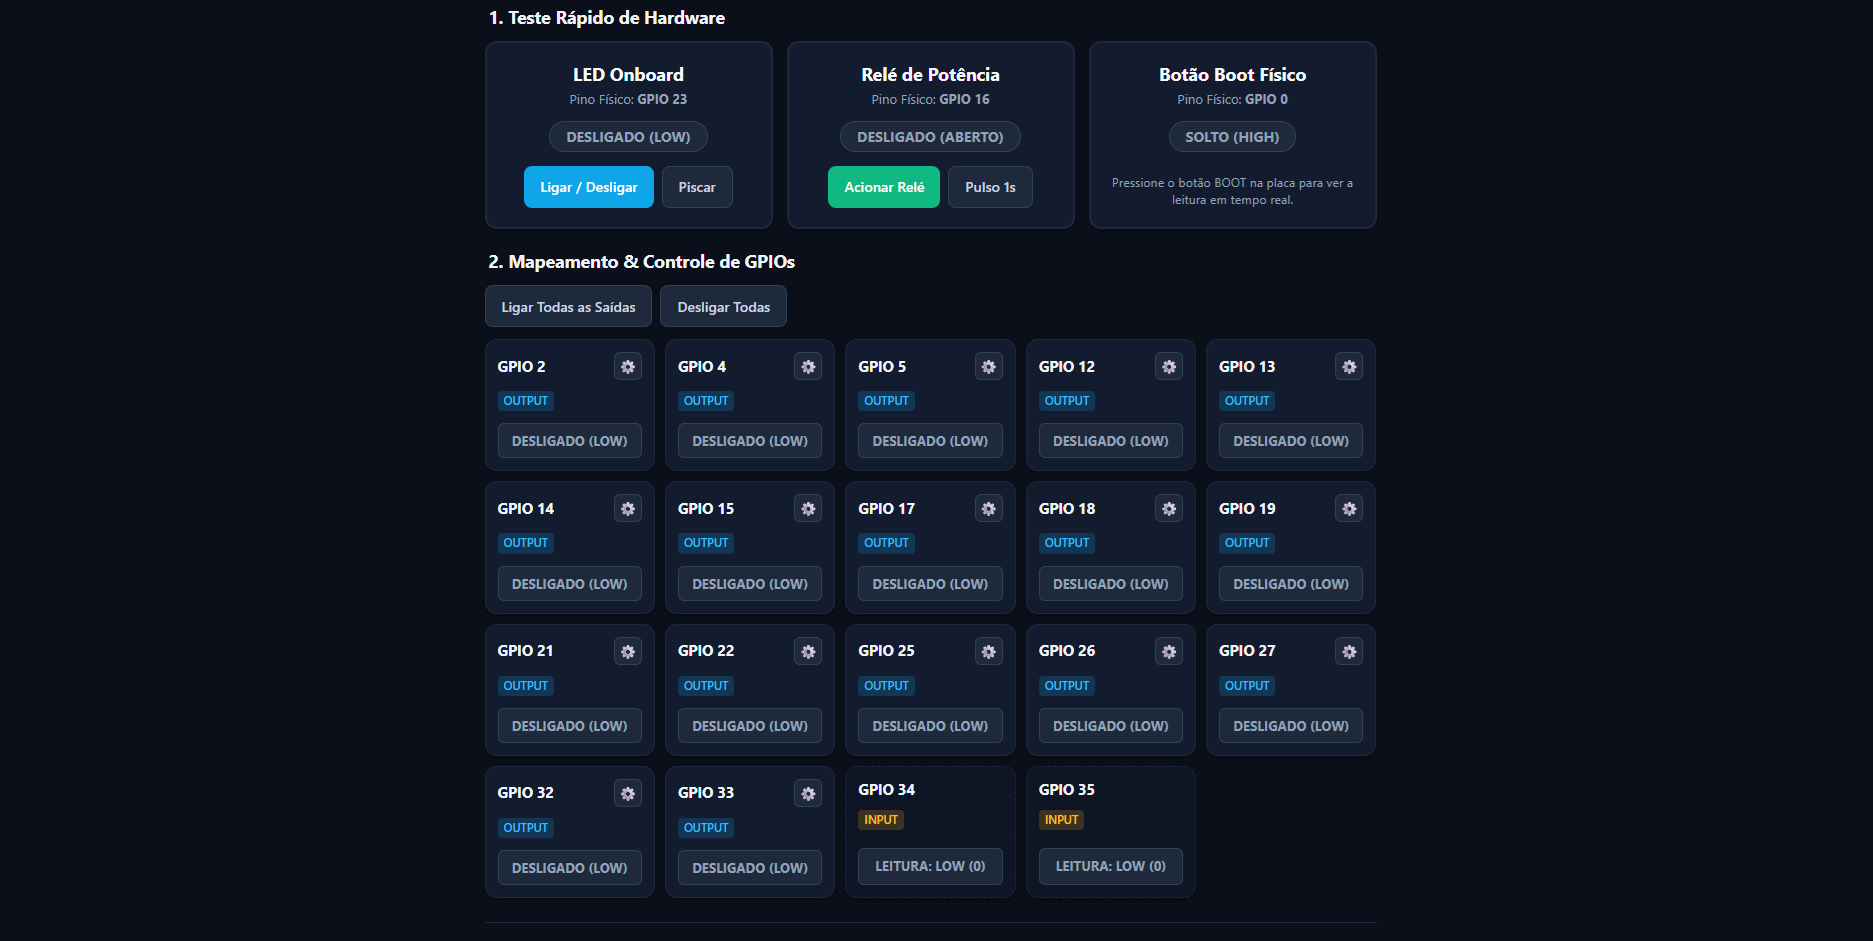
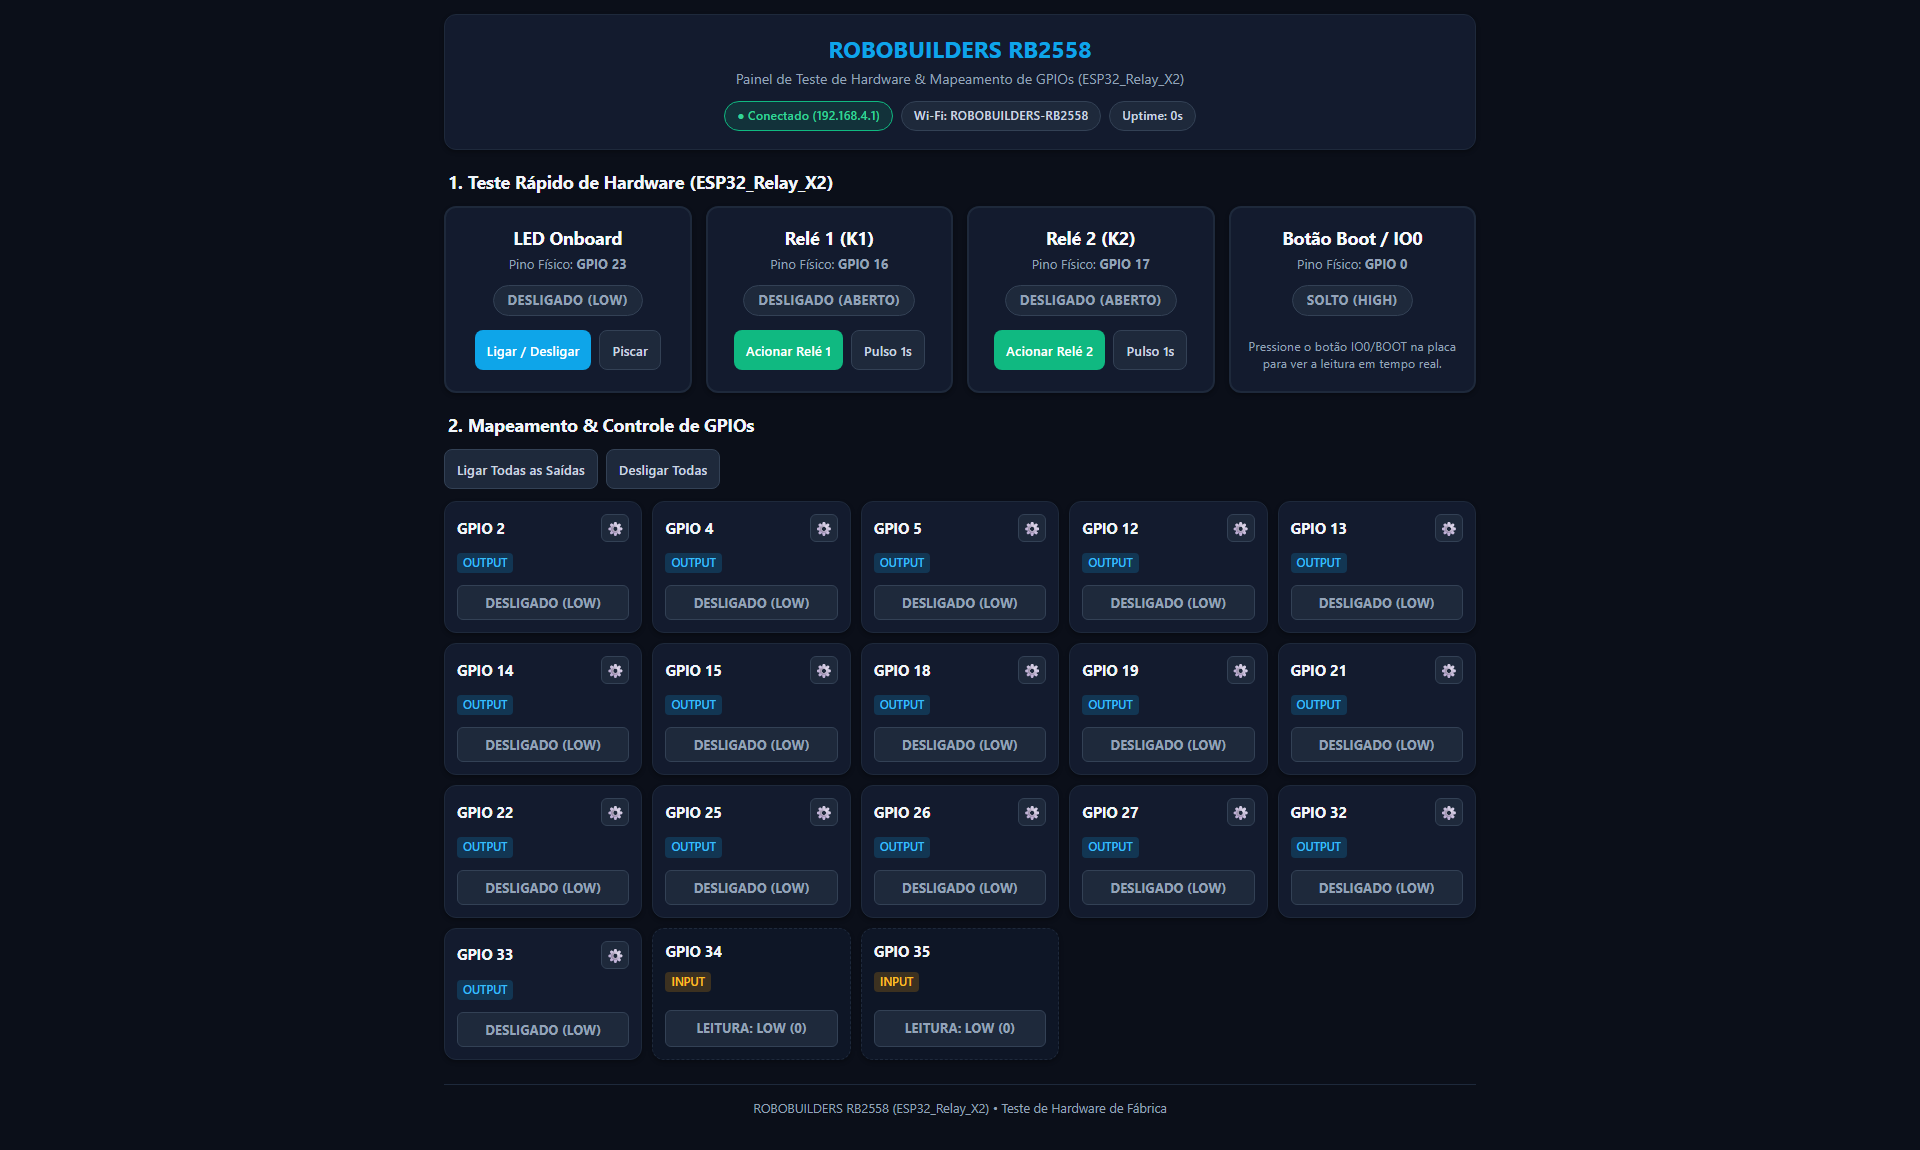
RB2558: ajusta layout do painel web e adiciona screenshot ao README

Changed region(s): [[0.2168, 0.0308, 0.7742, 0.9862], [0.2477, 0.0, 0.4026, 0.0308], [0.7122, 0.3698, 0.7432, 0.4006]]

diff --git a/RB2558/Documentação da placa e projeto WEB/ROBOBUILDERS_RB2558/web_page.h b/RB2558/Documentação da placa e projeto WEB/ROBOBUILDERS_RB2558/web_page.h
@@ -31,7 +31,7 @@ const char INDEX_HTML[] PROGMEM = R"rawliteral(
       --shadow-md: 0 8px 16px rgba(0,0,0,0.4);
     }
     * { box-sizing: border-box; margin: 0; padding: 0; font-family: -apple-system, BlinkMacSystemFont, "Segoe UI", Roboto, sans-serif; }
-    body { background: var(--bg); color: var(--text-main); padding: 14px; max-width: 980px; margin: 0 auto; line-height: 1.4; }
+    body { background: var(--bg); color: var(--text-main); padding: 14px; max-width: 1060px; margin: 0 auto; line-height: 1.4; }
 
     /* Top Header */
     header { background: var(--card-bg); border: 1px solid var(--card-border); border-radius: var(--radius); padding: 18px 16px; margin-bottom: 18px; text-align: center; box-shadow: var(--shadow-sm); }
@@ -45,11 +45,11 @@ const char INDEX_HTML[] PROGMEM = R"rawliteral(
     .section-title { font-size: 1.1rem; color: #f1f5f9; margin: 20px 0 12px 4px; font-weight: 700; display: flex; align-items: center; justify-content: space-between; }
 
     /* Hero Cards (LED, Relay 1, Relay 2, Boot) */
-    .hero-grid { display: grid; grid-template-columns: repeat(auto-fit, minmax(220px, 1fr)); gap: 14px; margin-bottom: 18px; }
-    .hero-card { background: var(--card-bg); border: 2px solid var(--card-border); border-radius: var(--radius); padding: 18px 16px; text-align: center; box-shadow: var(--shadow-sm); transition: all 0.2s; }
+    .hero-grid { display: grid; grid-template-columns: repeat(auto-fit, minmax(235px, 1fr)); gap: 14px; margin-bottom: 18px; }
+    .hero-card { background: var(--card-bg); border: 2px solid var(--card-border); border-radius: var(--radius); padding: 18px 14px; text-align: center; box-shadow: var(--shadow-sm); transition: all 0.2s; }
     .hero-card.active { border-color: var(--green); background: rgba(16, 185, 129, 0.08); }
     .hero-card.led-active { border-color: var(--primary); background: rgba(14, 165, 233, 0.08); }
-    .hero-card h3 { font-size: 1.08rem; margin-bottom: 4px; color: #f8fafc; }
+    .hero-card h3 { font-size: 1.1rem; margin-bottom: 4px; color: #f8fafc; }
     .hero-card .pin-tag { font-size: 0.82rem; color: var(--text-muted); margin-bottom: 12px; display: block; }
     .status-pill { display: inline-block; padding: 5px 14px; border-radius: 20px; font-weight: 700; font-size: 0.82rem; margin-bottom: 14px; letter-spacing: 0.3px; }
     .status-off { background: #1e293b; color: #94a3b8; border: 1px solid #334155; }
@@ -59,7 +59,7 @@ const char INDEX_HTML[] PROGMEM = R"rawliteral(
 
     /* Action Buttons */
     .btn-group { display: flex; gap: 8px; justify-content: center; }
-    .btn { cursor: pointer; border: none; padding: 10px 14px; border-radius: 8px; font-weight: 600; font-size: 0.86rem; transition: background 0.15s, transform 0.1s; display: inline-flex; align-items: center; justify-content: center; gap: 6px; min-height: 40px; }
+    .btn { cursor: pointer; border: none; padding: 10px 12px; border-radius: 8px; font-weight: 600; font-size: 0.84rem; white-space: nowrap; transition: background 0.15s, transform 0.1s; display: inline-flex; align-items: center; justify-content: center; gap: 6px; min-height: 40px; }
     .btn:active { transform: scale(0.97); }
     .btn-primary { background: var(--primary); color: #fff; }
     .btn-primary:hover { background: var(--primary-hover); }
@@ -74,7 +74,7 @@ const char INDEX_HTML[] PROGMEM = R"rawliteral(
     .bulk-bar { display: flex; gap: 8px; margin-bottom: 12px; flex-wrap: wrap; }
 
     /* GPIO Grid */
-    .gpio-grid { display: grid; grid-template-columns: repeat(auto-fill, minmax(160px, 1fr)); gap: 10px; }
+    .gpio-grid { display: grid; grid-template-columns: repeat(auto-fill, minmax(175px, 1fr)); gap: 10px; }
     .gpio-card { background: var(--card-bg); border: 1px solid var(--card-border); border-radius: var(--radius); padding: 12px; box-shadow: var(--shadow-sm); transition: all 0.15s; display: flex; flex-direction: column; justify-content: space-between; }
     .gpio-card.output-on { border-color: var(--green); background: rgba(16, 185, 129, 0.08); }
     .gpio-card.input-mode { border-style: dashed; background: #0e1626; }
@@ -131,7 +131,7 @@ const char INDEX_HTML[] PROGMEM = R"rawliteral(
     <div class="hero-card" id="cardLed">
       <h3>LED Onboard</h3>
       <span class="pin-tag">Pino Físico: <b>GPIO 23</b></span>
-      <div id="pillLed" class="status-pill status-off">DESLIGADO</div>
+      <div id="pillLed" class="status-pill status-off">DESLIGADO (LOW)</div>
       <div class="btn-group">
         <button class="btn btn-primary" onclick="togglePin(23)">Ligar / Desligar</button>
         <button class="btn btn-secondary" onclick="pulsePin(23, 500)">Piscar</button>

diff --git a/RB2558/Documentação da placa e projeto WEB/include/web_page.h b/RB2558/Documentação da placa e projeto WEB/include/web_page.h
@@ -31,7 +31,7 @@ const char INDEX_HTML[] PROGMEM = R"rawliteral(
       --shadow-md: 0 8px 16px rgba(0,0,0,0.4);
     }
     * { box-sizing: border-box; margin: 0; padding: 0; font-family: -apple-system, BlinkMacSystemFont, "Segoe UI", Roboto, sans-serif; }
-    body { background: var(--bg); color: var(--text-main); padding: 14px; max-width: 980px; margin: 0 auto; line-height: 1.4; }
+    body { background: var(--bg); color: var(--text-main); padding: 14px; max-width: 1060px; margin: 0 auto; line-height: 1.4; }
 
     /* Top Header */
     header { background: var(--card-bg); border: 1px solid var(--card-border); border-radius: var(--radius); padding: 18px 16px; margin-bottom: 18px; text-align: center; box-shadow: var(--shadow-sm); }
@@ -45,11 +45,11 @@ const char INDEX_HTML[] PROGMEM = R"rawliteral(
     .section-title { font-size: 1.1rem; color: #f1f5f9; margin: 20px 0 12px 4px; font-weight: 700; display: flex; align-items: center; justify-content: space-between; }
 
     /* Hero Cards (LED, Relay 1, Relay 2, Boot) */
-    .hero-grid { display: grid; grid-template-columns: repeat(auto-fit, minmax(220px, 1fr)); gap: 14px; margin-bottom: 18px; }
-    .hero-card { background: var(--card-bg); border: 2px solid var(--card-border); border-radius: var(--radius); padding: 18px 16px; text-align: center; box-shadow: var(--shadow-sm); transition: all 0.2s; }
+    .hero-grid { display: grid; grid-template-columns: repeat(auto-fit, minmax(235px, 1fr)); gap: 14px; margin-bottom: 18px; }
+    .hero-card { background: var(--card-bg); border: 2px solid var(--card-border); border-radius: var(--radius); padding: 18px 14px; text-align: center; box-shadow: var(--shadow-sm); transition: all 0.2s; }
     .hero-card.active { border-color: var(--green); background: rgba(16, 185, 129, 0.08); }
     .hero-card.led-active { border-color: var(--primary); background: rgba(14, 165, 233, 0.08); }
-    .hero-card h3 { font-size: 1.08rem; margin-bottom: 4px; color: #f8fafc; }
+    .hero-card h3 { font-size: 1.1rem; margin-bottom: 4px; color: #f8fafc; }
     .hero-card .pin-tag { font-size: 0.82rem; color: var(--text-muted); margin-bottom: 12px; display: block; }
     .status-pill { display: inline-block; padding: 5px 14px; border-radius: 20px; font-weight: 700; font-size: 0.82rem; margin-bottom: 14px; letter-spacing: 0.3px; }
     .status-off { background: #1e293b; color: #94a3b8; border: 1px solid #334155; }
@@ -59,7 +59,7 @@ const char INDEX_HTML[] PROGMEM = R"rawliteral(
 
     /* Action Buttons */
     .btn-group { display: flex; gap: 8px; justify-content: center; }
-    .btn { cursor: pointer; border: none; padding: 10px 14px; border-radius: 8px; font-weight: 600; font-size: 0.86rem; transition: background 0.15s, transform 0.1s; display: inline-flex; align-items: center; justify-content: center; gap: 6px; min-height: 40px; }
+    .btn { cursor: pointer; border: none; padding: 10px 12px; border-radius: 8px; font-weight: 600; font-size: 0.84rem; white-space: nowrap; transition: background 0.15s, transform 0.1s; display: inline-flex; align-items: center; justify-content: center; gap: 6px; min-height: 40px; }
     .btn:active { transform: scale(0.97); }
     .btn-primary { background: var(--primary); color: #fff; }
     .btn-primary:hover { background: var(--primary-hover); }
@@ -74,7 +74,7 @@ const char INDEX_HTML[] PROGMEM = R"rawliteral(
     .bulk-bar { display: flex; gap: 8px; margin-bottom: 12px; flex-wrap: wrap; }
 
     /* GPIO Grid */
-    .gpio-grid { display: grid; grid-template-columns: repeat(auto-fill, minmax(160px, 1fr)); gap: 10px; }
+    .gpio-grid { display: grid; grid-template-columns: repeat(auto-fill, minmax(175px, 1fr)); gap: 10px; }
     .gpio-card { background: var(--card-bg); border: 1px solid var(--card-border); border-radius: var(--radius); padding: 12px; box-shadow: var(--shadow-sm); transition: all 0.15s; display: flex; flex-direction: column; justify-content: space-between; }
     .gpio-card.output-on { border-color: var(--green); background: rgba(16, 185, 129, 0.08); }
     .gpio-card.input-mode { border-style: dashed; background: #0e1626; }
@@ -131,7 +131,7 @@ const char INDEX_HTML[] PROGMEM = R"rawliteral(
     <div class="hero-card" id="cardLed">
       <h3>LED Onboard</h3>
       <span class="pin-tag">Pino Físico: <b>GPIO 23</b></span>
-      <div id="pillLed" class="status-pill status-off">DESLIGADO</div>
+      <div id="pillLed" class="status-pill status-off">DESLIGADO (LOW)</div>
       <div class="btn-group">
         <button class="btn btn-primary" onclick="togglePin(23)">Ligar / Desligar</button>
         <button class="btn btn-secondary" onclick="pulsePin(23, 500)">Piscar</button>

diff --git a/RB2558/Documentação da placa e projeto WEB/README.md b/RB2558/Documentação da placa e projeto WEB/README.md
@@ -12,6 +12,8 @@ O firmware **ROBOBUILDERS RB2558** é o software de fábrica (*Hello World*) des
 - **Mapeamento Flexível de GPIOs**: Cada pino digital livre possui um ícone de engrenagem (⚙) para configuração dinâmica entre **OUTPUT** (Saída Digital) e **INPUT** (Entrada Digital com Pull-Up).
 - **Leitura do Botão Físico**: Leitura em tempo real do estado do botão **IO0 / BOOT** (**GPIO 0**).
 
+![Painel Web ROBOBUILDERS RB2558](img/TELA-INICIAL.png)
+
 ---
 
 ## ⚙ ESPECIFICAÇÕES DA PLACA (`ESP32_Relay_X2`)
